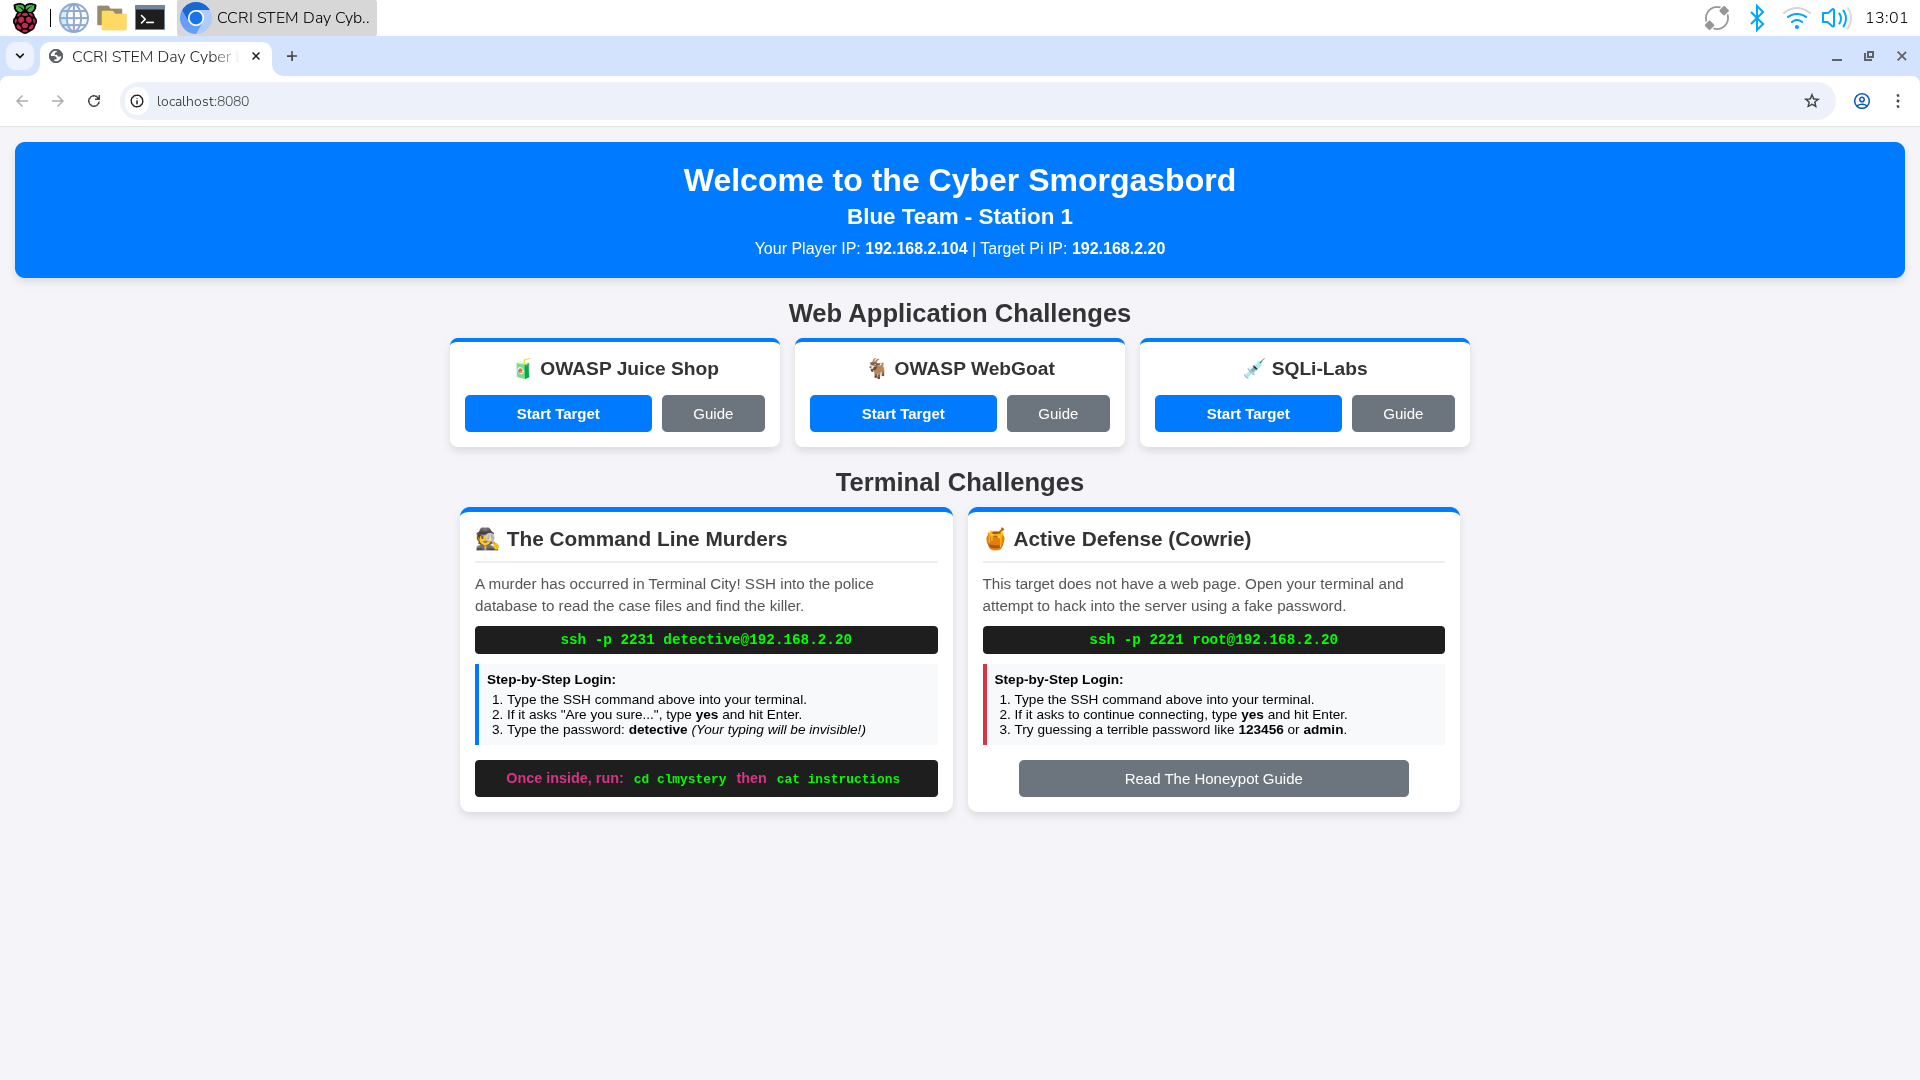
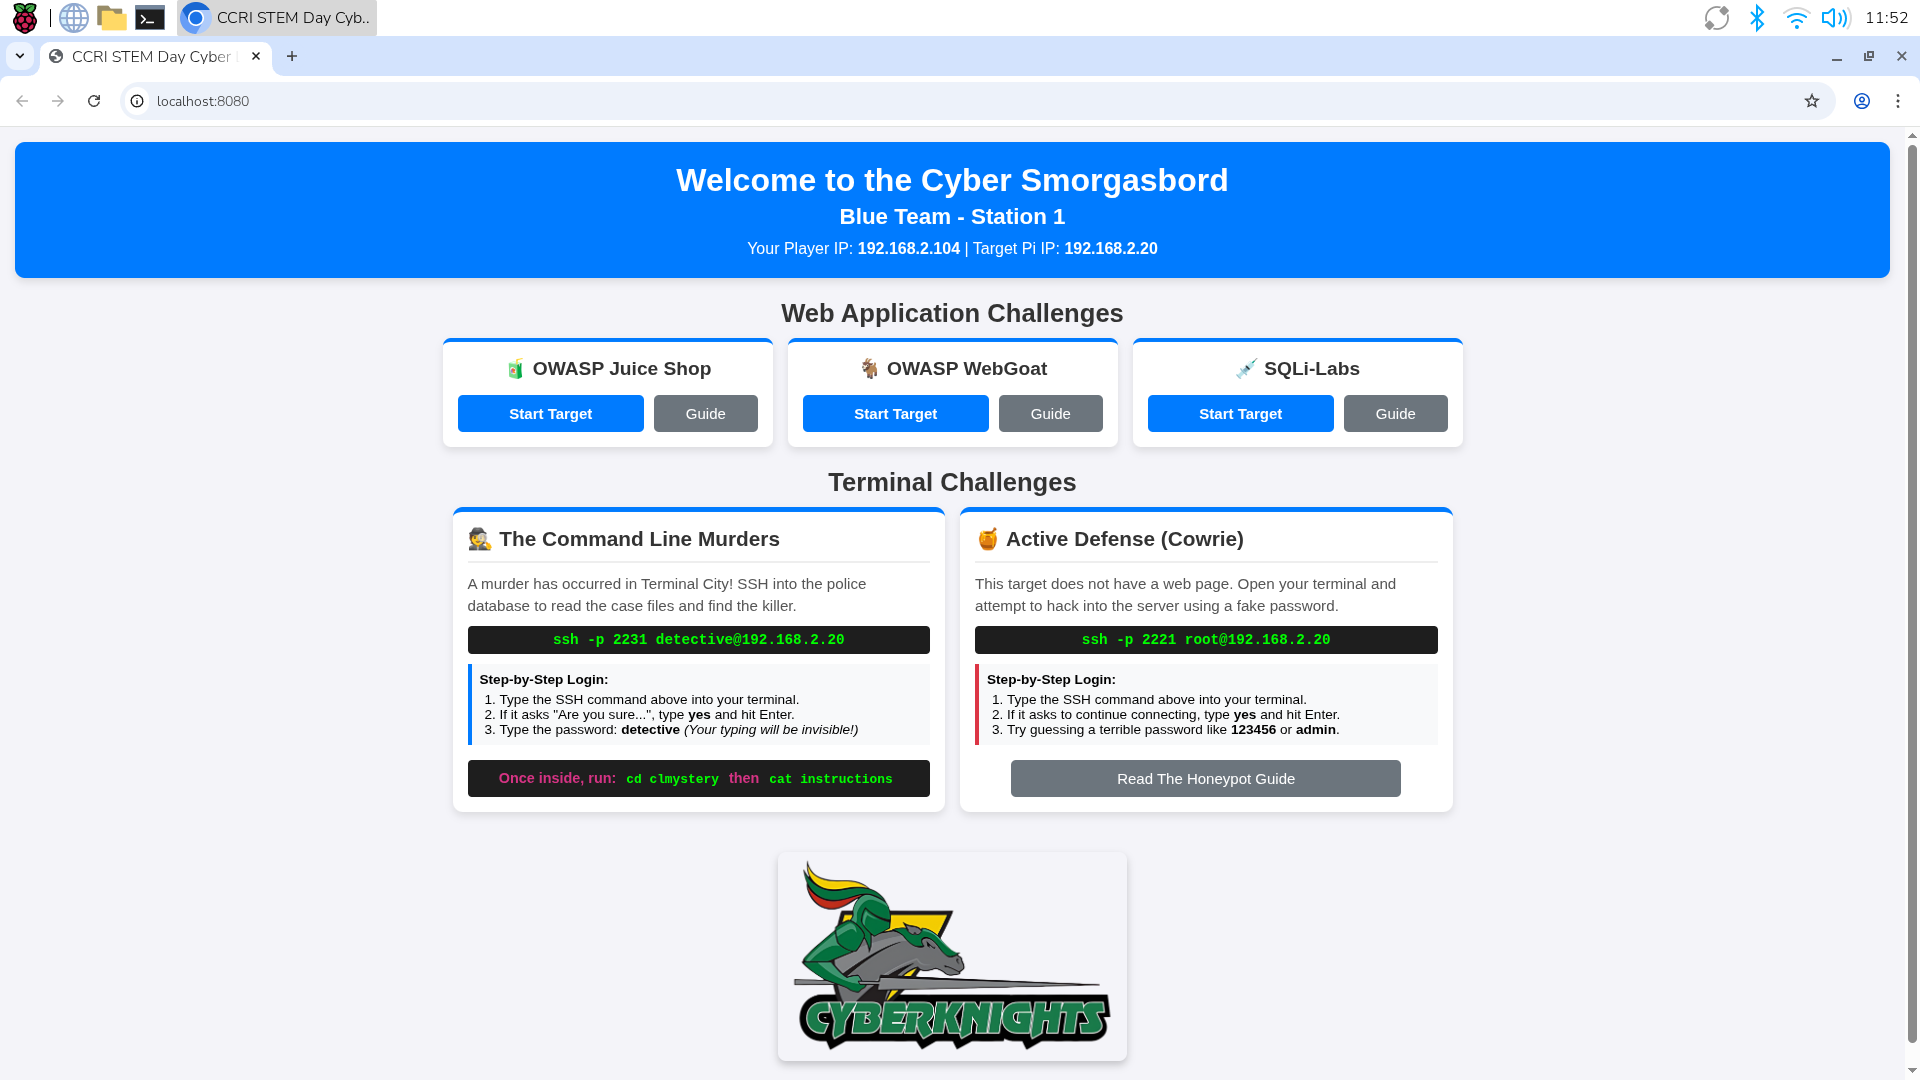
updates

diff --git a/README.md b/README.md
@@ -53,7 +53,7 @@ Once launched, open your web browser to `http://127.0.0.1:8080` to access the de
 *Captive Portal Start Screens:*
 * [Red Team - Player 1](https://github.com/CCRI-Cyberknights/pi_stemday/blob/main/red_capture.png)
 * [Blue Team - Player 1](https://github.com/CCRI-Cyberknights/pi_stemday/blob/main/blue_capture.png)
-* [Yellow Team - Player 1]() *(Coming Soon)*
+* [Yellow Team - Player 1](https://github.com/CCRI-Cyberknights/pi_stemday/blob/main/yellow_capture.png)
 
 ## 📚 Credits & Upstream Projects
 
